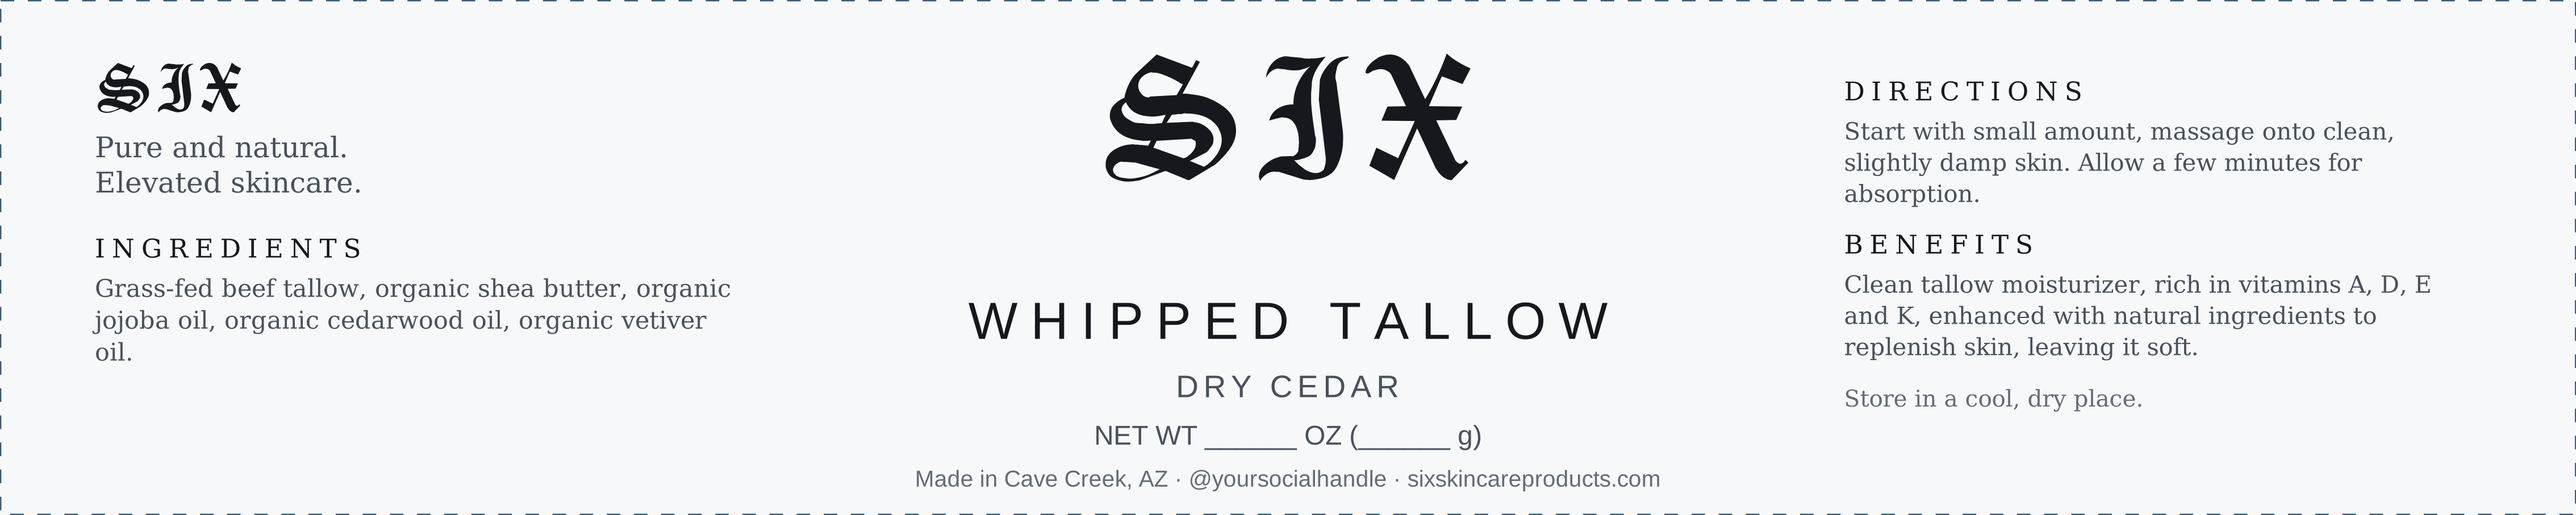
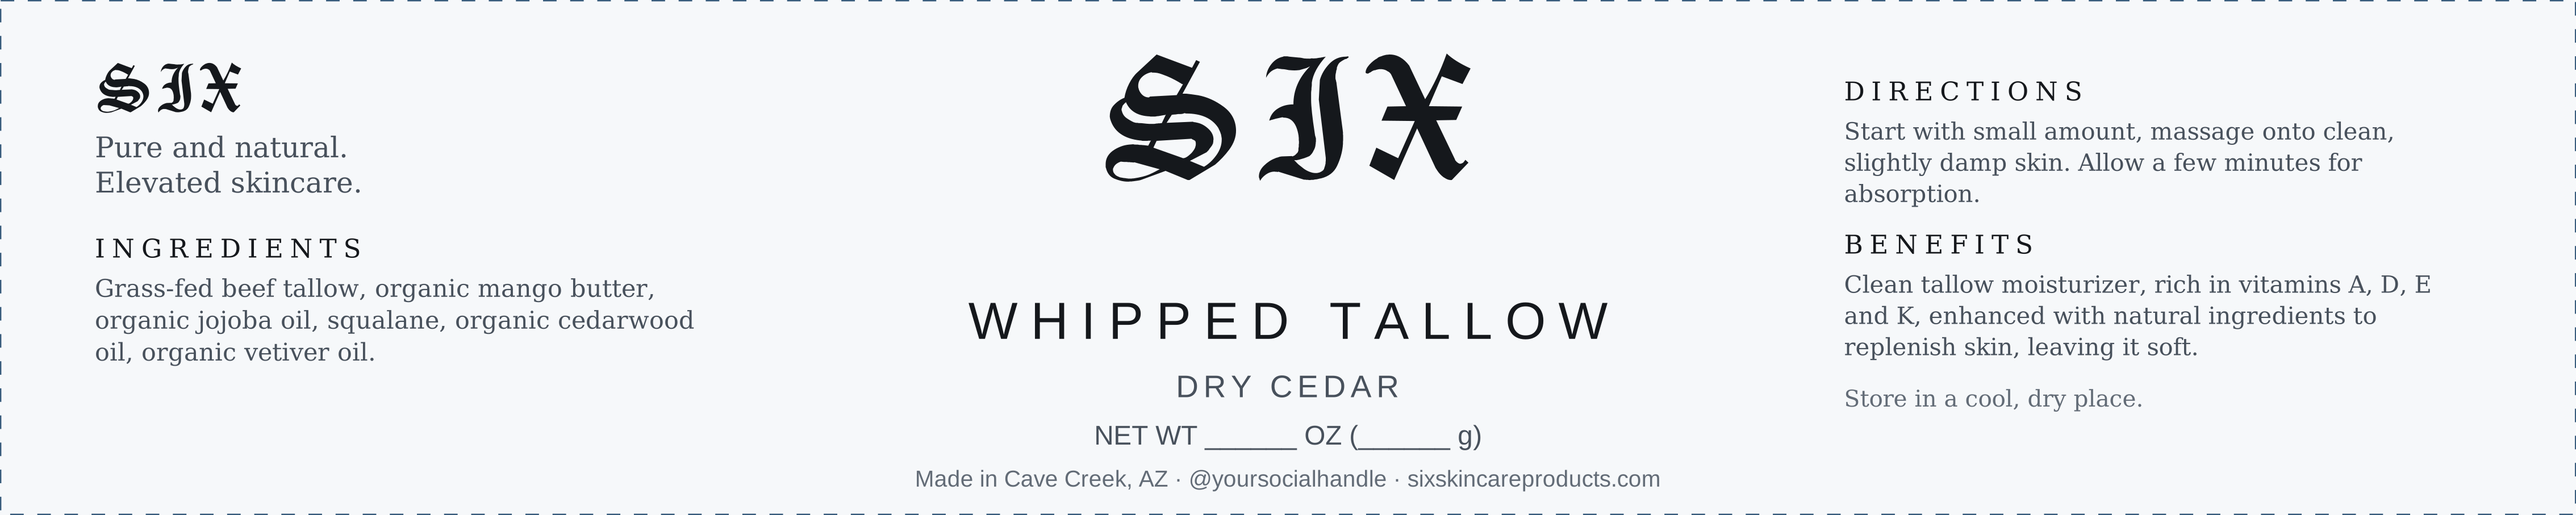
Swap shea for organic mango butter, add squalane
Base is now grass-fed tallow, organic mango butter, organic jojoba, squalane.

Changed everywhere the base is named, not only in the ingredient list: the
homepage hero and balms blurb, the range page and its meta description, the
Why Tallow base paragraph (three ingredients became four), the shared base
notes, the BASE_TOGETHER line, and the printed labels.

Two new ingredients-page entries. Mango butter's caveat notes it is in the
same family as cashew and pistachio. Squalane's says ours is from olives
rather than shark liver, and that a brand which will not say which is worth
asking.

Claude-Session: https://claude.ai/code/session_01TYn4u9H1AxY32yb73P56yk

Changed region(s): [[0.0311, 0.5248, 0.2798, 0.6483], [0.0622, 0.6792, 0.1555, 0.71]]

diff --git a/data/ingredients.ts b/data/ingredients.ts
@@ -69,19 +69,21 @@ export const INGREDIENTS: Ingredient[] = [
       "Vitamin content varies considerably with the animal's diet and with how the fat was rendered. Grass-fed tallow carries more than grain-fed, but no batch should be treated as a standardised source of any vitamin.",
   },
   {
-    slug: "shea-butter",
-    name: "Organic shea butter",
-    source: "Butyrospermum parkii",
+    slug: "mango-butter",
+    name: "Organic mango butter",
+    source: "Mangifera indica",
     kind: "base",
     usedIn: [],
     composition:
-      "Fat pressed from the nut of the shea tree, chiefly oleic and stearic acids, with an unusually large unsaponifiable fraction of triterpenes and tocopherols.",
+      "Fat pressed from the kernel inside the mango stone — the part nobody eats. Chiefly oleic and stearic acids, with naturally occurring tocopherols.",
     properties: [
-      "It holds one of the higher unsaponifiable fractions of any plant butter — the portion that does not convert to soap, and where much of its emollient character sits.",
-      "It contains naturally occurring tocopherols, the vitamin E family.",
       "It is solid at room temperature and softens at skin temperature, which is what gives a whipped balm its body.",
-      "It has been prepared and used topically in West Africa for centuries.",
+      "It contains naturally occurring tocopherols, the vitamin E family.",
+      "It carries almost no smell of its own. Unrefined shea has a distinct nutty, faintly smoky scent that competes with a delicate blend; mango butter leaves the essential oils to do the talking.",
+      "It is less waxy on the skin than shea, and it absorbs without the drag that heavier butters can leave.",
     ],
+    caveat:
+      "Mango belongs to the Anacardiaceae family, alongside cashew and pistachio. The butter is pressed from the kernel rather than the skin and reactions to it are rare, but anyone with a known cashew or pistachio allergy should patch test before using it widely.",
   },
   {
     slug: "jojoba",
@@ -96,6 +98,22 @@ export const INGREDIENTS: Ingredient[] = [
       "Being a wax rather than an oil, it is markedly resistant to oxidation, so it keeps far longer than most plant oils before turning.",
       "It is light in feel and is widely used to lighten heavier butters and fats without diluting their occlusive effect.",
     ],
+  },
+  {
+    slug: "squalane",
+    name: "Squalane",
+    source: "Olea europaea, hydrogenated",
+    kind: "base",
+    usedIn: [],
+    composition:
+      "A single saturated hydrocarbon. Ours is made from olives: squalene is isolated from the oil and hydrogenated to squalane, which is the stable form of the same molecule.",
+    properties: [
+      "Squalene — the unsaturated version — is already present in human sebum, where it makes up roughly a tenth of what skin puts out on its own.",
+      "Saturating it removes the double bonds that make squalene go off. Squalane is among the most oxidation-resistant materials in cosmetics and will outlast everything else in the jar.",
+      "It is remarkably light and dry to the touch, which is what lets it take the weight out of butters without diluting what they do.",
+    ],
+    caveat:
+      "Worth saying plainly, because the industry spent decades not saying it: squalane was historically rendered from shark liver, and some still is. Ours is from olives. If a brand does not tell you which, it is worth asking.",
   },
   {
     slug: "jasmine",
@@ -147,7 +165,7 @@ export const INGREDIENTS: Ingredient[] = [
       "That activity is most usefully understood as a formulation property: antioxidants slow the oxidation of the oils around them, which is how an oil-based product stays fresh.",
     ],
     caveat:
-      "Vanilla's long history is as a flavouring and a fragrance. Unlike shea or jojoba it carries no substantial tradition of topical use, and it is in the blend because of how it smells and what it does to the other oils. Worth knowing when comparing suppliers: most vanilla sold for perfumery is an oleoresin, pulled out of the bean with ethanol. This is the CO2 extract, which uses no solvent at all. They are different materials at different prices, and most of what is written about vanilla describes the oleoresin.",
+      "Vanilla's long history is as a flavouring and a fragrance. Unlike the fats it sits in, it carries no substantial tradition of topical use, and it is in the blend because of how it smells and what it does to the other oils. Worth knowing when comparing suppliers: most vanilla sold for perfumery is an oleoresin, pulled out of the bean with ethanol. This is the CO2 extract, which uses no solvent at all. They are different materials at different prices, and most of what is written about vanilla describes the oleoresin.",
   },
   {
     slug: "frankincense",

diff --git a/data/products.ts b/data/products.ts
@@ -58,7 +58,7 @@ export const CURRENCY = "usd";
 
 /** Shared across all four balms. */
 const TALLOW_BASE =
-  "Grass-fed beef tallow, organic shea butter (Butyrospermum Parkii), organic jojoba oil (Simmondsia Chinensis)";
+  "Grass-fed beef tallow, organic mango butter (Mangifera Indica), organic jojoba oil (Simmondsia Chinensis), squalane";
 
 /** Shared by all four rollers. */
 const ROLLER_BASE = "Organic jojoba oil (Simmondsia Chinensis)";
@@ -69,7 +69,7 @@ const ROLLER_BASE = "Organic jojoba oil (Simmondsia Chinensis)";
  * jojoba on its own, so there is nothing to balance.
  */
 export const BASE_TOGETHER =
-  "Tallow is occlusive, shea emollient, jojoba a wax ester rather than a triglyceride. That balancing base is why the balm moisturises for hours without ever feeling like a layer.";
+  "Tallow is occlusive, mango butter emollient, jojoba a wax ester rather than a triglyceride, squalane the lightest thing in the jar. That balancing base is why the balm moisturises for hours without ever feeling like a layer.";
 
 /**
  * The base every balm shares, and the jojoba the rollers are built on.
@@ -85,12 +85,16 @@ const BALM_BASE_NOTES = [
     note: "Lipids your skin recognizes. Mimicking the skin's natural oils, tallow melts in easily and leaves skin soft and supple. It naturally carries vitamins A, D, E, and K, and has been used as a skin balm for centuries.",
   },
   {
-    name: "Organic shea butter",
-    note: "Naturally rich in vitamin E, shea is velvety and slow to fade, giving the balm its cushioned texture and leaving a soft layer of moisture that lasts well into the day.",
+    name: "Organic mango butter",
+    note: "Pressed from the seed of the mango. Naturally rich in vitamin E, it is velvety and slow to fade, giving the balm its cushioned texture and leaving a soft layer of moisture that lasts well into the day. It carries almost no scent of its own, so it leaves the blend on top to do the talking.",
   },
   {
     name: "Organic jojoba oil",
     note: "Native to the Sonoran Desert. Jojoba is a liquid wax and the closest match to skin's natural oils found in any plant, so it sinks in easily and feels right at home on skin. Lightweight and naturally rich in vitamin E, it lightens the balm and leaves a silky, glowing finish.",
+  },
+  {
+    name: "Squalane",
+    note: "Plant-derived, from olives. Squalane is the stable form of squalene, which skin already makes for itself. It is the lightest thing in the jar, dry to the touch, and it takes the weight out of the butters without thinning what they do.",
   },
 ];
 

diff --git a/app/page.tsx b/app/page.tsx
@@ -23,8 +23,8 @@ export default function HomePage() {
               given more weight than another. The breaks are hard rather than
               left to wrap, so the rhythm holds at every width. */}
           <p className="mt-6 max-w-md text-base leading-relaxed text-ink-soft">
-            Grass-fed tallow, whipped with organic shea and jojoba. Blended with
-            essential oils.
+            Grass-fed tallow, whipped with organic mango butter, jojoba and
+            squalane. Blended with essential oils.
             <br />
             Natural ingredients, chosen for what they do.
             <br />
@@ -58,8 +58,8 @@ export default function HomePage() {
         <div className="mb-10">
           <h2 className="font-serif text-2xl text-ink">The Balms</h2>
           <p className="measure mt-2 text-sm leading-relaxed text-ink-soft">
-            Same base every time — grass-fed tallow, organic shea butter,
-            organic jojoba. Four blends on top of it.
+            Same base every time — grass-fed tallow, organic mango butter,
+            organic jojoba, squalane. Four blends on top of it.
           </p>
         </div>
 
@@ -95,7 +95,7 @@ export default function HomePage() {
             },
             {
               title: "Organic Botanicals",
-              body: "Shea, jojoba and every essential oil are certified organic. The full ingredient list is on every product page — read it before you buy, not after the carton arrives.",
+              body: "Mango butter, jojoba and every essential oil are certified organic. The full ingredient list is on every product page — read it before you buy, not after the carton arrives.",
             },
             {
               title: "Two Ways to Wear It",

diff --git a/app/about/page.tsx b/app/about/page.tsx
@@ -57,13 +57,14 @@ export default function AboutPage() {
         <div className="mt-5 space-y-5 text-base leading-relaxed text-ink-soft">
           <p>
             Every balm starts the same way: grass-fed tallow whipped with organic
-            shea butter and organic jojoba. The shea gives it body, the jojoba
-            keeps it from feeling heavy, and the whipping turns something firm
-            into something you can lift with a fingertip.
+            mango butter, organic jojoba and squalane. The mango butter gives it
+            body, the jojoba keeps it from feeling heavy, the squalane takes the
+            last of the weight out, and the whipping turns something firm into
+            something you can lift with a fingertip.
           </p>
           <p>
-            That is three ingredients before anything is added. The blend on top
-            is the only thing that changes between jars, and each of the three
+            That is four ingredients before anything is added. The blend on top
+            is the only thing that changes between jars, and each of the four
             comes again as a perfume roller in organic jojoba — so you can wear a
             scent lightly, or layer it over the balm and have it last.
           </p>

diff --git a/app/products/page.tsx b/app/products/page.tsx
@@ -5,7 +5,7 @@ import { productsByFormat } from "@/data/products";
 export const metadata: Metadata = {
   title: "The Range",
   description:
-    "Four organic essential oil blends, each as a whipped tallow balm and as a perfume roller. Grass-fed tallow, organic shea and organic jojoba throughout.",
+    "Four organic essential oil blends, each as a whipped tallow balm and as a perfume roller. Grass-fed tallow, organic mango butter, organic jojoba and squalane throughout.",
 };
 
 export default function ProductsPage() {
@@ -22,7 +22,7 @@ export default function ProductsPage() {
           Four Blends, Two Ways
         </h1>
         <p className="mt-5 text-base leading-relaxed text-ink-soft">
-          Every balm shares the same base — grass-fed tallow, organic shea
+          Every balm shares the same base — grass-fed tallow, organic mango
           butter, organic jojoba — and differs only in the blend on top. Each
           of those four blends comes again as a perfume roller.
         </p>

diff --git a/scripts/make-labels.py b/scripts/make-labels.py
@@ -203,7 +203,7 @@ def plain(ingredients: str) -> str:
 
     Worth knowing what this costs. 21 CFR 701.3 wants ingredients declared by
     their INCI names, and for a plant material the INCI name IS the Latin
-    binomial — "Butyrospermum Parkii (Shea) Butter", not "shea butter". A
+    binomial — "Mangifera Indica (Mango) Seed Butter", not "mango butter". A
     declaration in common names only is not a compliant one.
 
     The website still carries the full declaration on every product page, so
